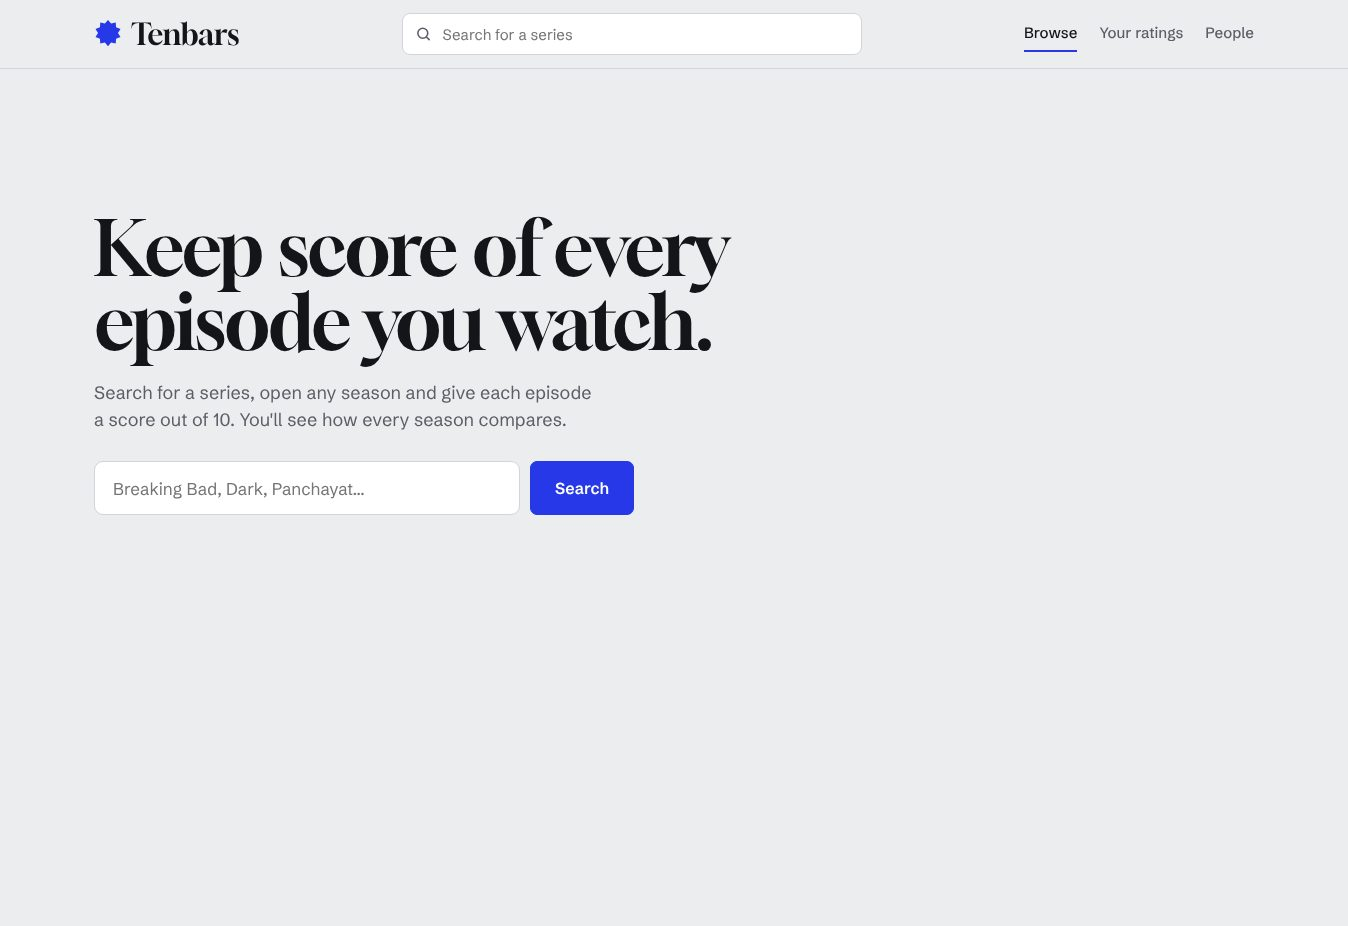
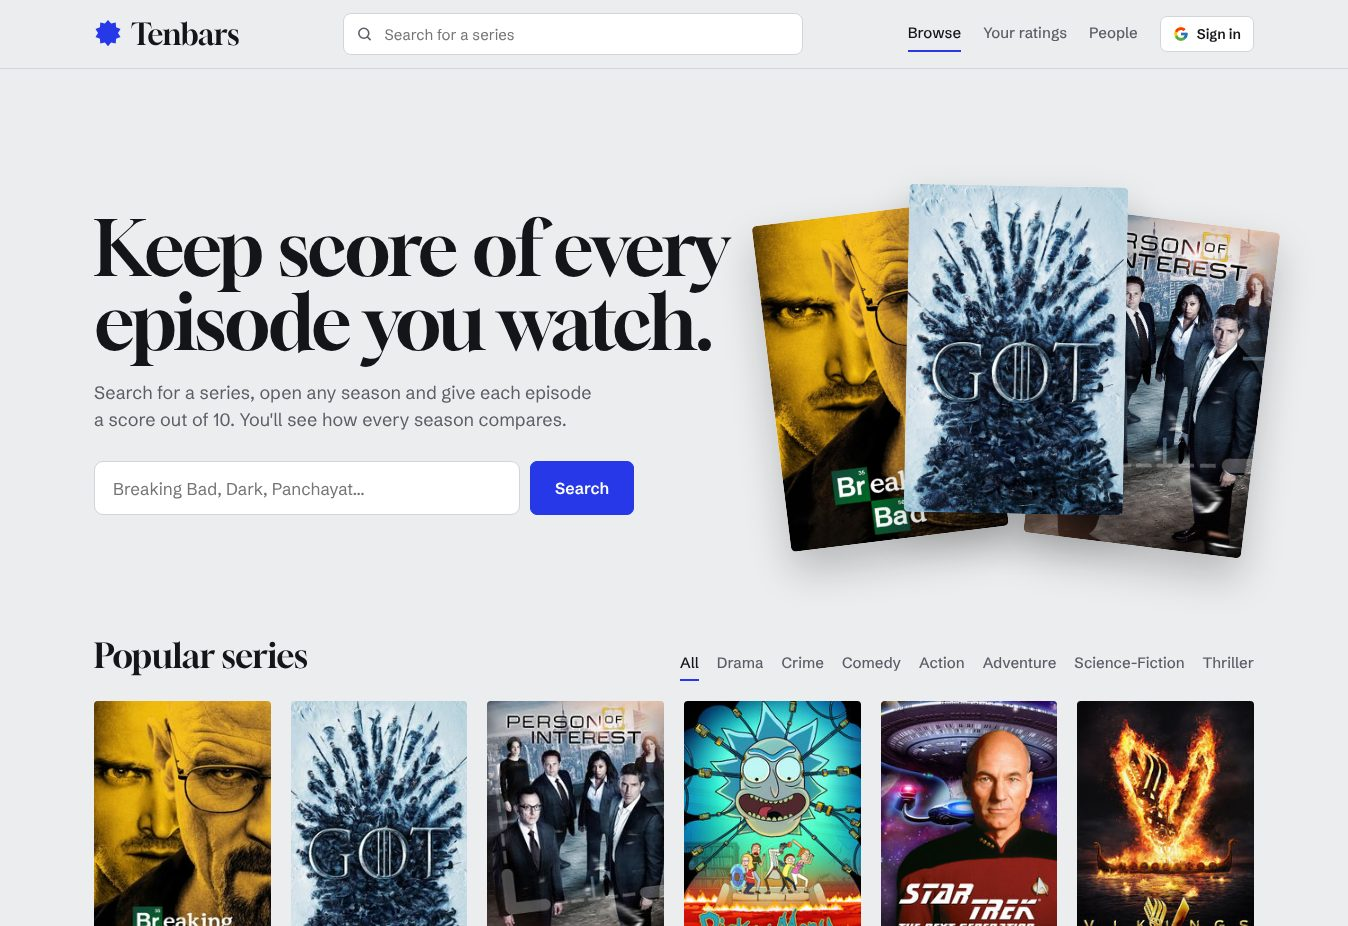
Use a screenshot of the live Tenbars site
The new image is captured from tenbars.vercel.app, with its poster stack
and popular series, replacing the local render.

Claude-Session: https://claude.ai/code/session_01N1mPBEvq8UAvQFfXw24wsG

diff --git a/index.html b/index.html
@@ -104,7 +104,7 @@
       <div class="project-actions"><a class="project-cta" href="https://tenbars.vercel.app" target="_blank" rel="noopener noreferrer">Open Tenbars <span aria-hidden="true">↗</span></a><a class="project-story-link" href="stories.html#tenbars" aria-label="Read the story behind Tenbars">Read the story <span aria-hidden="true">→</span></a></div>
     </div>
     <a class="project-visual tenbars-visual" href="https://tenbars.vercel.app" target="_blank" rel="noopener noreferrer" aria-label="Visit Tenbars (opens in a new tab)">
-      <div class="project-art"><img src="assets/tenbars.jpg" alt="Tenbars homepage inviting you to keep score of every episode you watch" width="1348" height="926" loading="lazy"></div>
+      <div class="project-art"><img src="assets/tenbars.jpg" alt="Tenbars homepage with a search bar and posters of popular series like Breaking Bad and Game of Thrones" width="1348" height="926" loading="lazy"></div>
       <span class="preview-open" aria-hidden="true">↗</span>
     </a>
   </article>
